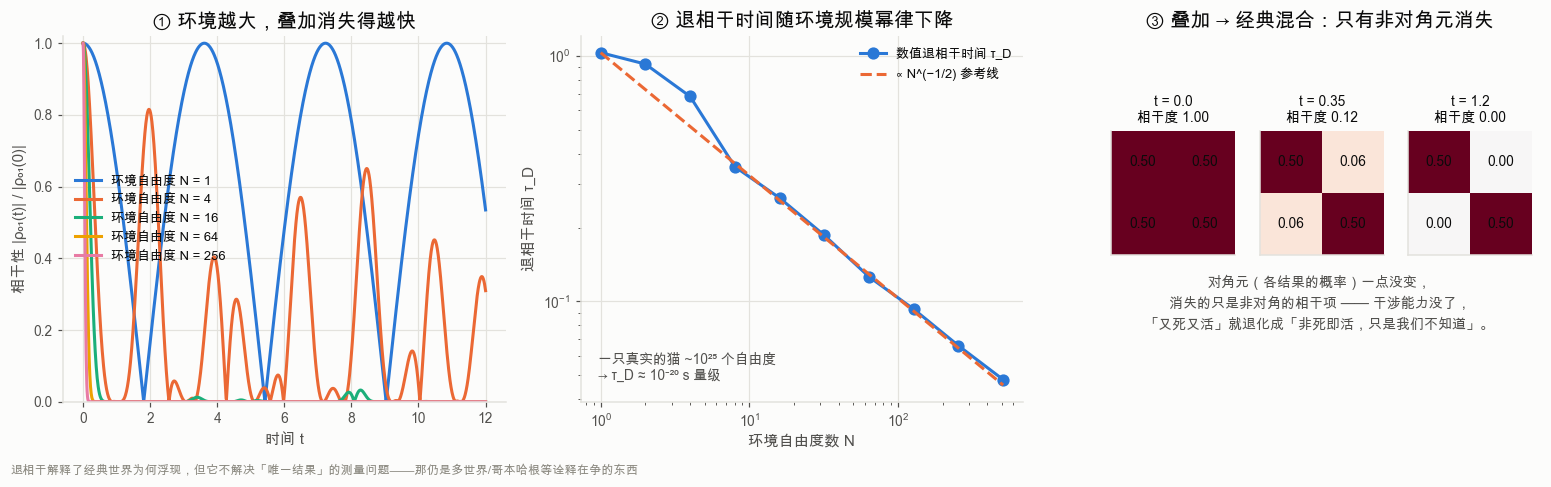
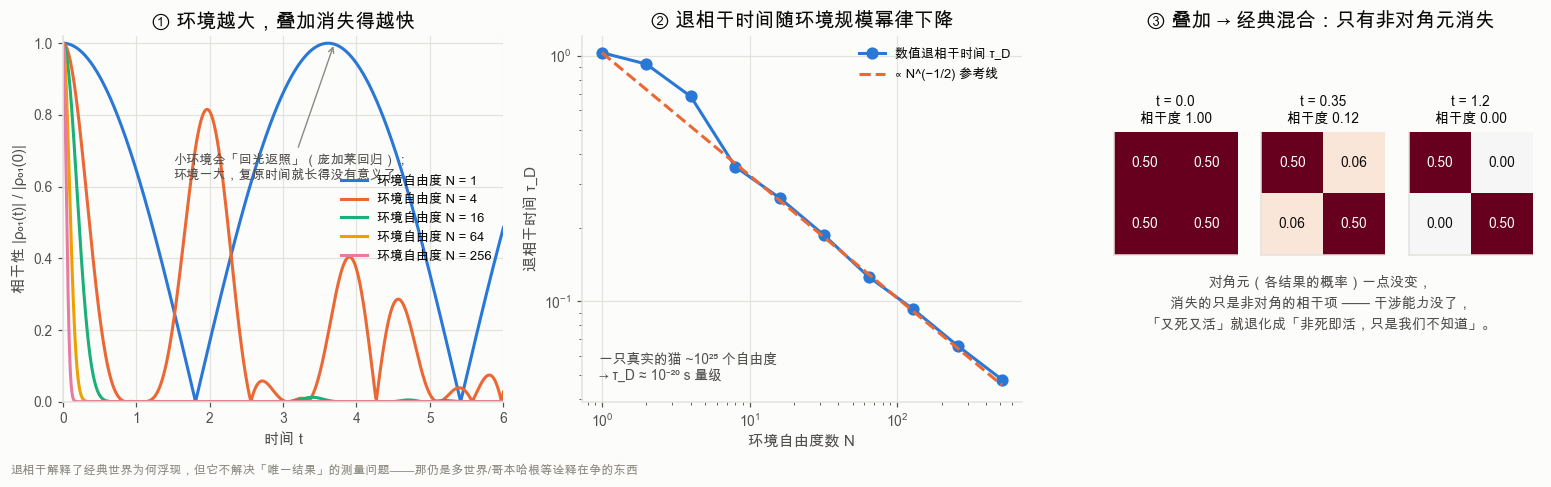
update

diff --git a/qhv/s07_emergence.py b/qhv/s07_emergence.py
@@ -166,7 +166,7 @@ def fig_quantum_phase_transition():
     ax.legend(title="链长", loc="upper right", fontsize=8.5, title_fontsize=8.5)
 
     # 内插图：临界点上 S ∝ (c/6)·ln N —— 对数发散，正是「涌现的场论」的签名
-    ins = ax.inset_axes([0.42, 0.10, 0.34, 0.34])
+    ins = ax.inset_axes([0.07, 0.10, 0.30, 0.32])
     Sc = [np.interp(1.0, gs_vals, ents[n]) for n in sizes]
     lnN = np.log(np.array(sizes, dtype=float))
     k_, b_ = np.polyfit(lnN, Sc, 1)
@@ -185,7 +185,7 @@ def fig_quantum_phase_transition():
     ax.axvline(1.0, color=C["red"], ls="--", lw=1.6)
     ax.set_xlabel("横场强度 g / J"); ax.set_ylabel("∂²(E₀/N)/∂g²")
     ax.set_title("④ 二阶量子相变：能量连续，二阶导趋于奇点")
-    ax.text(0.03, 0.10,
+    ax.text(0.03, 0.84,
             "热力学极限下这里是一个真正的发散点；\n"
             "有限链把它抹圆了，但链越长，极小值越深、越靠近 g=1。",
             transform=ax.transAxes, fontsize=8.8, color=INK_2, linespacing=1.5)
@@ -270,8 +270,11 @@ def fig_decoherence(seed: int = 11):
         ax.plot(t, coh, color=SERIES[i], lw=2, label=f"环境自由度 N = {N}")
     ax.set_xlabel("时间 t"); ax.set_ylabel("相干性 |ρ₀₁(t)| / |ρ₀₁(0)|")
     ax.set_title("① 环境越大，叠加消失得越快")
-    ax.set_ylim(0, 1.02)
-    ax.legend(fontsize=8.5)
+    ax.set_ylim(0, 1.02); ax.set_xlim(0, 6)
+    ax.annotate("小环境会「回光返照」（庞加莱回归）；\n环境一大，复原时间就长得没有意义了",
+                xy=(3.7, 1.0), xytext=(1.5, 0.62), fontsize=8.6, color=INK_2,
+                arrowprops=dict(arrowstyle="->", color=INK_MUTED, lw=0.9))
+    ax.legend(fontsize=8.5, loc="center right")
 
     ax = axes[1]
     Ns = np.array([1, 2, 4, 8, 16, 32, 64, 128, 256, 512])
@@ -303,7 +306,8 @@ def fig_decoherence(seed: int = 11):
         for r in range(2):
             for c_ in range(2):
                 sub.text(c_, r, f"{rho[r,c_]:.2f}", ha="center", va="center",
-                         fontsize=9, color=INK)
+                         fontsize=9,
+                         color="white" if abs(rho[r, c_]) > 0.3 else INK)
         sub.set_xticks([]); sub.set_yticks([]); sub.grid(False)
         sub.set_title(f"t = {tv}\n相干度 {coh:.2f}", fontsize=9)
     ax.axis("off")
